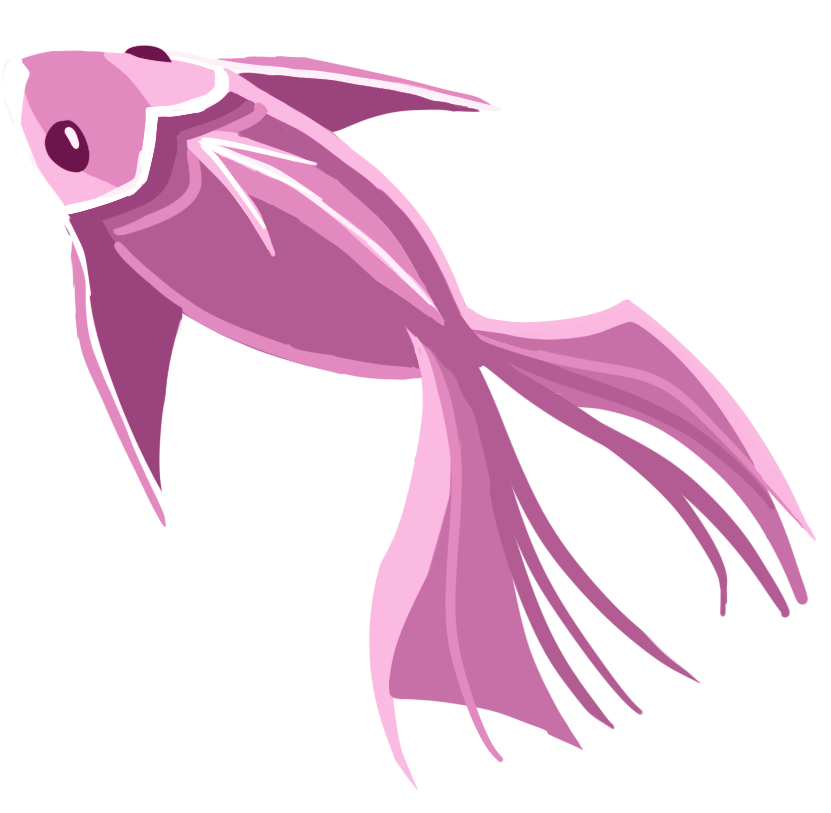
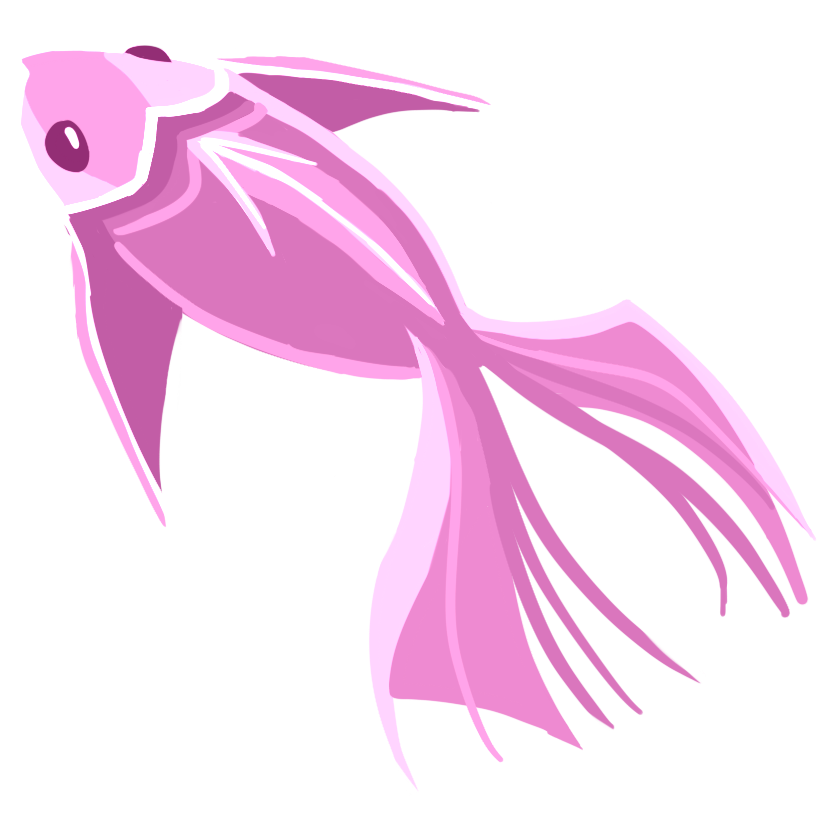
finished magic scene visuals

Changed region(s): [[0.0, 0.0308, 0.9928, 0.9533], [0.7822, 0.7995, 0.8424, 0.8303], [0.7521, 0.7688, 0.7822, 0.7995]]

diff --git a/music_starter.js b/music_starter.js
@@ -8,9 +8,9 @@ let CircleArrayY = [50, 60, 160, 650, 840, 1000, 1040, 1020, 340, 250, 120, 50, 
 let bubbles = [];
 let coralArrayX = [10, 5, 60, 70, 130, 150, 150, 20, 1590, 1660, 1680, 1600, 1670, 1750, 210];
 let coralArrayY = [950, 1040, 1000, 900, 960, 890, 1040, 870, 530, 560, 500, 470, 420, 460, 970];
-let fishX = 1;
-let fishY = 0;
-let Ymove = 250 //where the bubbles start 250
+let fishY;
+let swirlY;
+let Ymove = 250 //where the bubbles start
 let Ymove2 = 1380
 let Ymove3 = 1480
 let img; //pink fish
@@ -19,13 +19,13 @@ let img3; //rocks
 let img4; //bw rocks w coral
 let img5; //water background
 let img6; //bw purple coral
-let img7; //purple coral
-let img8; //purple coral
+let img7; //purple coral left
+let img8; //purple coral right
 let img9; //swirl
 let img10; //magic background
-let img11; //bw purplecoral(2)
+let img11; //bw purplecoral right
 let firstRun = true
-let bubblesInitialized = false;
+
 // vocal, drum, bass, and other are volumes ranging from 0 to 100
 function draw_one_frame(words, vocal, drum, bass, other, counter) {
   if (firstRun) { //images
@@ -39,7 +39,7 @@ function draw_one_frame(words, vocal, drum, bass, other, counter) {
     img8 = loadImage('PurpleCoral2.png');
     img9 = loadImage('Swirl.png');
     img10 = loadImage('magicbackground.png');
-    img11 = loadImage('BWPurpleCoral2')
+    img11 = loadImage('BWPurpleCoral2.png');
     firstRun = false
   }
   rectMode(CENTER)
@@ -72,8 +72,9 @@ function draw_one_frame(words, vocal, drum, bass, other, counter) {
   //magic variables
   let shineSize = map(vocal, 0, 100, 40, 100);
   let circleSize = map(bass, 0, 100, 3, 30);
+  let swirlY = map(bass, 0, 100, -50, 10)
 
-  //scene changes!!
+
   //start and end
   if ((counter > -5 && counter < 901) || (counter > 14700 && counter < 15801)) {
     image(img3, 0, 0); //rocks
@@ -87,7 +88,6 @@ function draw_one_frame(words, vocal, drum, bass, other, counter) {
 
   }
 
-
   //build up
   if ((counter > 900 && counter < 2721) || (counter > 6500 && counter < 7401) || (counter > 10100 && counter < 12001)) {
     image(img3, 0, 0); //rocks
@@ -100,38 +100,40 @@ function draw_one_frame(words, vocal, drum, bass, other, counter) {
     image(img, 800, fishY); // pink fish
   }
 
-
-  //magic
+  //magic 
   if ((counter > 2720 && counter < 5601) || (counter > 7400 && counter < 9201) || (counter > 12000 && counter < 14700)) {
     image(img10, 0, 0);
-    background
-    image(img9, 0, 0); //swirls :O
+    DrawCoral([255, 172, 255], [248, 231, 255]); //spinning coral
+    DrawCoral([255, 172, 255], [248, 231, 255], 1150, -140);
+    DrawCoral([255, 172, 255], [248, 231, 255], 50, 100, 0.5);
+    DrawSeaweed();
+    push();
+    scale(1.06);
+    image(img9, 0, swirlY); //swirls :O
+    pop();
     image(img, 800, fishY); // fish
-    //circles
-    for (let s = 0; s <= 17; s++) {
-      fill(247, 237, 213);
-      stroke(247, 237, 213);
+
+
+    for (let s = 0; s <= 17; s++) { //circles
+      fill(255, 232, 234);
+      stroke(255, 232, 234);
       strokeWeight(2);
       ellipse(CircleArrayX[s], CircleArrayY[s], circleSize)
     }
 
-
-
     for (let j = 0; j <= 20; j++) { //shines
-      //shines
-      fill(249, 227, 178); //light yellow
-      stroke(249, 227, 178);
+      fill(255, 232, 234); //light yellow
+      stroke(255, 232, 234);
       strokeWeight(8);
 
       ellipse(ShineArrayX[j], ShineArrayY[j], shineSize, 5);
       ellipse(ShineArrayX[j], ShineArrayY[j], 5, shineSize); //shine shape
 
-
-      // for (let h = 0; h <= 20; h++) { //stars
-      // }
     }
-  }
 
+    // for (let h = 0; h <= 20; h++) { //stars
+    // }    
+  }
 
   //still
   if ((counter > 5600 && counter < 6501) || (counter > 9200 && counter < 10101)) {
@@ -147,7 +149,6 @@ function draw_one_frame(words, vocal, drum, bass, other, counter) {
   }
 
   //bubbles 
-  // bubblecut yo
   // if ((counter > 2650 && counter < 2700) || (counter > 5550 && counter < 5650) || (counter > 6450 && counter < 6550)) { //needs 150 counts
   //   for (let b = 0; b < 340; b++) {
   //     let x = random(width);
@@ -245,6 +246,8 @@ function draw_one_frame(words, vocal, drum, bass, other, counter) {
       ellipse(0, 0, 90, 5);
       pop();
     }
+
+    //seaweed
 
   }
 
